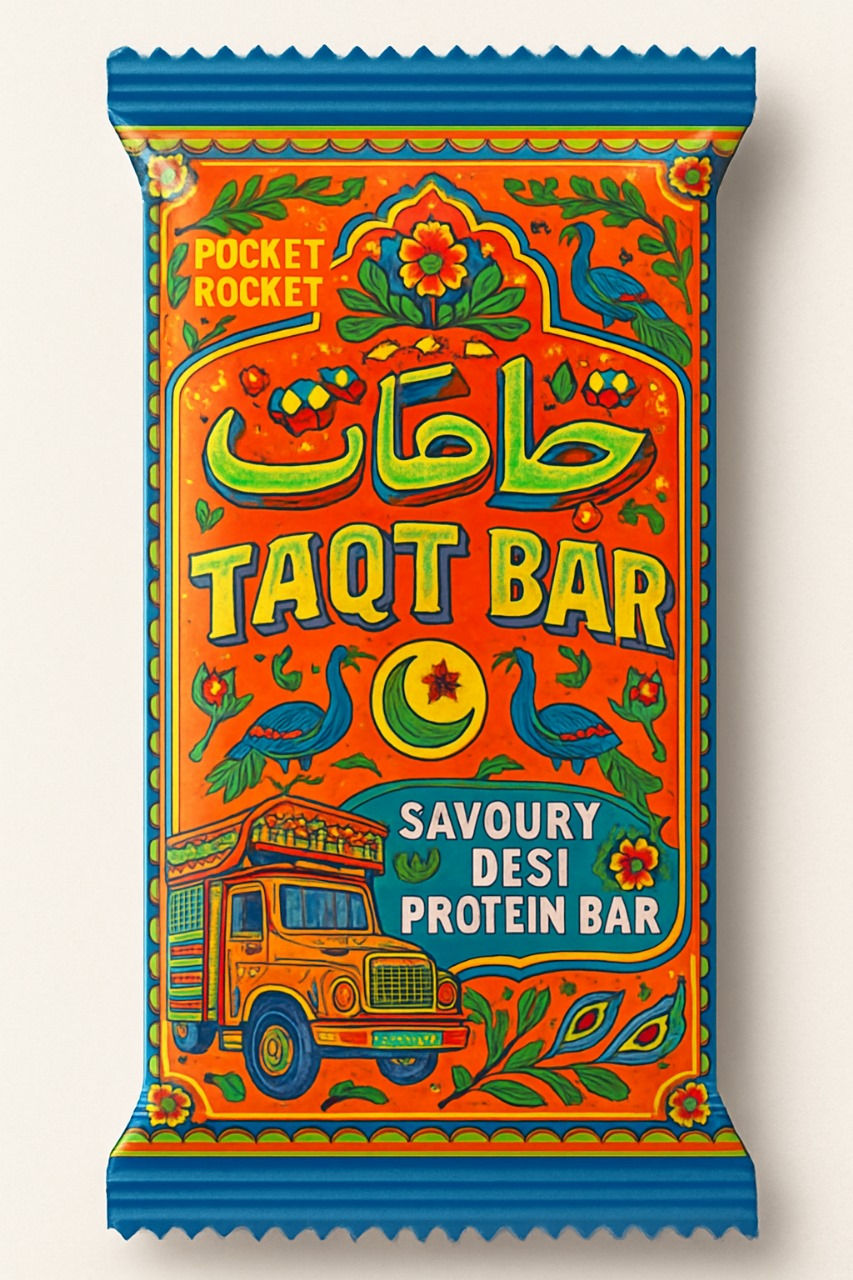
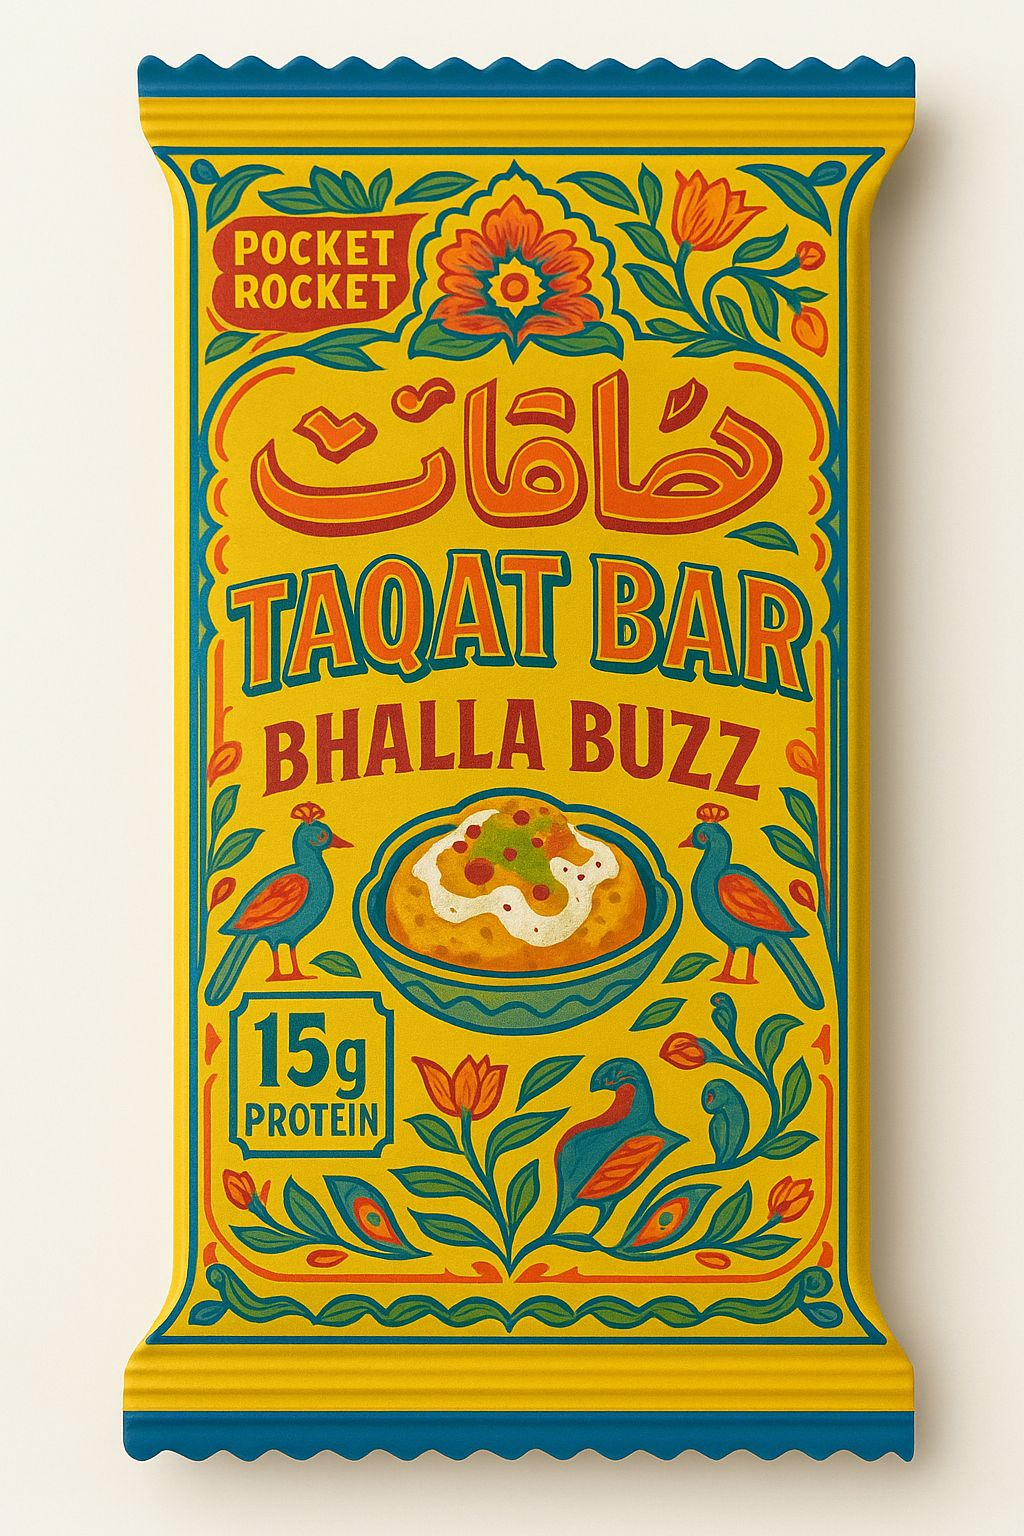
Initial commit with React e-commerce project

diff --git a/src/data/products.jsx b/src/data/products.jsx
@@ -7,7 +7,7 @@ import img4 from "../images/4.jpg";
 export const products = [
   {
     id: 1,
-    name: "Puri Powder",
+    name: "Puri Power",
     type: "Protein Bar",
     price: 165,
     stock: 15,
@@ -15,7 +15,7 @@ export const products = [
   },
   {
     id: 2,
-    name: "Smocky Desi",
+    name: "Smokey Shakti",
     type: "Protein Bar",
     price: 165,
     stock: 8,
@@ -23,7 +23,7 @@ export const products = [
   },
   {
     id: 3,
-    name: "Savory Desi Bar",
+    name: "Bhalla Buzz",
     type: "Protein Bar",
     price: 165,
     stock: 20,
@@ -31,7 +31,7 @@ export const products = [
   },
   {
     id: 4,
-    name: "Bhalla Buzz",
+    name: "Chaska Chaat",
     type: "Protein Bar",
     price: 165,
     stock: 12,

diff --git a/src/components/NavBar.jsx b/src/components/NavBar.jsx
@@ -7,7 +7,7 @@ const Navbar = ({ cartItems }) => {
   return (
     <nav className="navbar">
       <div className="navbar-container">
-        <Link to="/" className="navbar-logo">Pocket Pocket</Link>
+        <Link to="/" className="navbar-logo">Pocket Rocket</Link>
         <div className="navbar-links">
           <Link to="/" className="navbar-link">Products</Link>
           <Link to="/cart" className="navbar-link">
